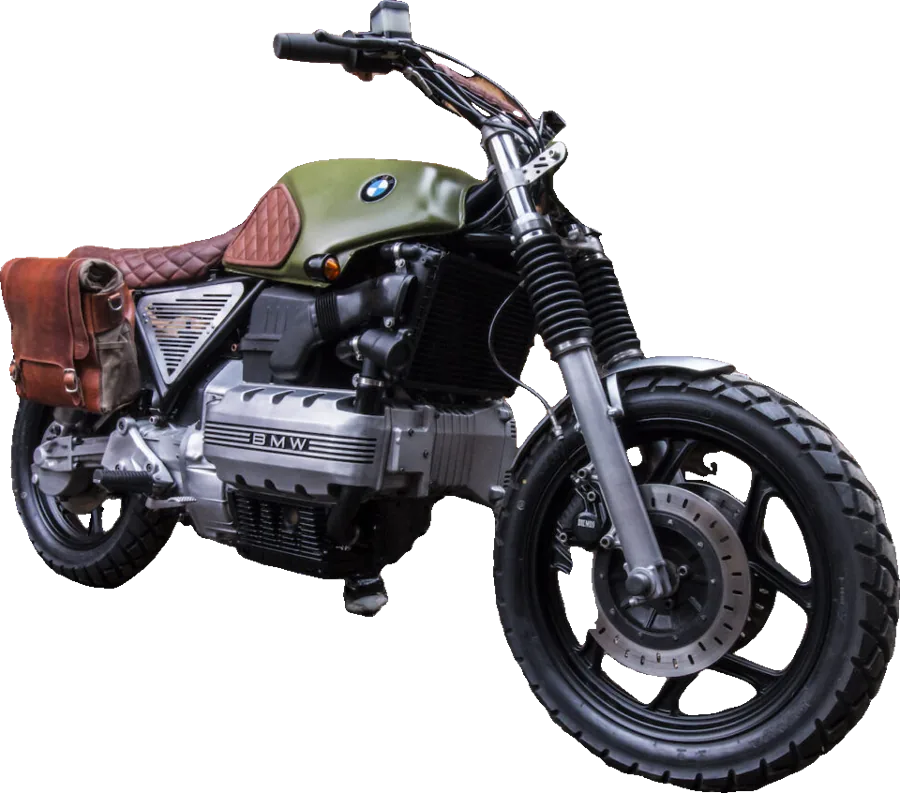
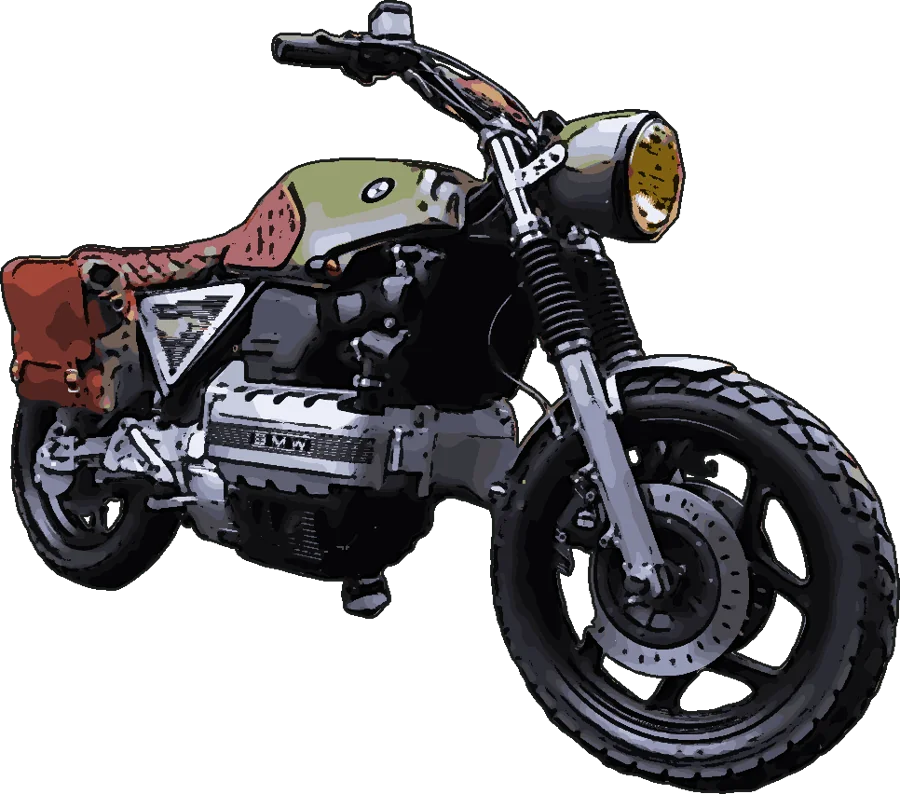
K100 als cartoon, koplamp hersteld; modelnamen bovenaan in de foto
Claude-Session: https://claude.ai/code/session_01NyUtvhLSHmrCRTdEhqBtzt

diff --git a/index.html b/index.html
@@ -143,8 +143,8 @@ dialog.garage::backdrop{background:rgba(10,18,14,.6)}
 .bikes{display:grid;grid-template-columns:repeat(3,minmax(0,1fr));gap:14px}
 .bike{background:var(--card);border:1px solid var(--line);border-radius:16px;overflow:hidden;display:flex;flex-direction:column;min-width:0}
 .bike-photo{aspect-ratio:4/3;max-width:100%;display:grid;place-items:center;position:relative;overflow:hidden;background:radial-gradient(120% 90% at 50% 100%, var(--card) 0%, var(--soft) 70%);border-bottom:3px solid var(--paint)}
-.bike-photo img{position:absolute;inset:10% 6% 8%;width:88%;height:82%;object-fit:contain;filter:drop-shadow(0 14px 12px rgba(0,0,0,.28))}
-.bike-photo .model{font-family:var(--f-display);font-weight:800;font-stretch:65%;font-size:clamp(3.4rem,9vw,5rem);letter-spacing:.02em;text-transform:uppercase;color:var(--paint);opacity:.16;transform:translateY(-18%)}
+.bike-photo img{position:absolute;left:6%;top:20%;width:88%;height:72%;object-fit:contain;filter:drop-shadow(0 14px 12px rgba(0,0,0,.28))}
+.bike-photo .model{position:absolute;left:14px;top:8px;z-index:1;font-family:var(--f-display);font-weight:800;font-stretch:65%;font-size:clamp(2.2rem,5vw,2.9rem);line-height:1;letter-spacing:.01em;text-transform:uppercase;color:var(--paint)}
 .bike-photo .ph{position:absolute;left:12px;bottom:8px;font:500 .64rem var(--f-mono);letter-spacing:.06em;color:var(--muted)}
 .bike-photo .badge{position:absolute;right:12px;top:12px;font:500 .7rem var(--f-mono);letter-spacing:.1em;text-transform:uppercase;background:var(--brass);color:var(--racing);padding:4px 10px;border-radius:999px}
 .bike-blue{--paint:var(--bike-blue)} .bike-red{--paint:var(--bike-red)} .bike-silver{--paint:var(--bike-silver)}
@@ -304,7 +304,7 @@ dialog.garage::backdrop{background:rgba(10,18,14,.6)}
         <div class="bike-text"><h3>Suzuki RF900R</h3><p data-i18n="rf.p">Sporttourer uit de jaren negentig met een viercilinder van 937 cc. Snel, comfortabel en in het rood.</p></div>
       </article>
       <article class="bike bike-silver">
-        <div class="bike-photo"><span class="model">K100</span><img src="img/k100.webp" alt="BMW K100 omgebouwd tot scrambler door Vintage Steele" width="900" height="793"><span class="badge" data-i18n="k.badge">Project</span><span class="ph" data-i18n="m.photo">Voorbeeld: Vintage Steele</span></div>
+        <div class="bike-photo"><span class="model">K100</span><img src="img/k100.webp" alt="Getekende BMW K100 scrambler, naar de ombouw van Vintage Steele" width="900" height="794"><span class="badge" data-i18n="k.badge">Project</span><span class="ph" data-i18n="m.photo">Naar: Vintage Steele</span></div>
         <div class="bike-text"><h3>BMW K100</h3><p data-i18n="k.p">De "vliegende baksteen": een liggende viercilinder van bijna 1000 cc. Mijn volgende ombouwproject.</p></div>
       </article>
     </div>
@@ -324,7 +324,7 @@ const T = {
     "m.title": "My motorcycles",
     "m.close": "Close",
     "m.intro": "Three bikes, each with its own character. One of them is about to get a makeover.",
-    "m.photo": "Example: Vintage Steele",
+    "m.photo": "After: Vintage Steele",
     "cb1.p": "Compact 400 cc four-cylinder from the late eighties that loves to rev high. In blue.",
     "rf.p": "Nineties sports tourer with a 937 cc four-cylinder. Fast, comfortable and red.",
     "k.badge": "Project",
@@ -370,7 +370,7 @@ const T = {
     "m.title": "Meine Motorräder",
     "m.close": "Schließen",
     "m.intro": "Drei Motorräder, jedes mit eigenem Charakter. Eines davon kommt bald unter den Schraubenschlüssel.",
-    "m.photo": "Beispiel: Vintage Steele",
+    "m.photo": "Nach: Vintage Steele",
     "cb1.p": "Kompakter 400-cm³-Vierzylinder aus den späten Achtzigern, der am liebsten hoch dreht. In Blau.",
     "rf.p": "Sporttourer aus den Neunzigern mit 937-cm³-Vierzylinder. Schnell, komfortabel und in Rot.",
     "k.badge": "Projekt",
@@ -416,7 +416,7 @@ const T = {
     "m.title": "Mes motos",
     "m.close": "Fermer",
     "m.intro": "Trois motos, chacune avec son caractère. L'une d'elles va bientôt passer à l'atelier.",
-    "m.photo": "Exemple : Vintage Steele",
+    "m.photo": "D'après : Vintage Steele",
     "cb1.p": "Compacte quatre-cylindres de 400 cm³ de la fin des années 80, qui adore monter dans les tours. En bleu.",
     "rf.p": "Sportive-GT des années 90 avec un quatre-cylindres de 937 cm³. Rapide, confortable et rouge.",
     "k.badge": "Projet",
